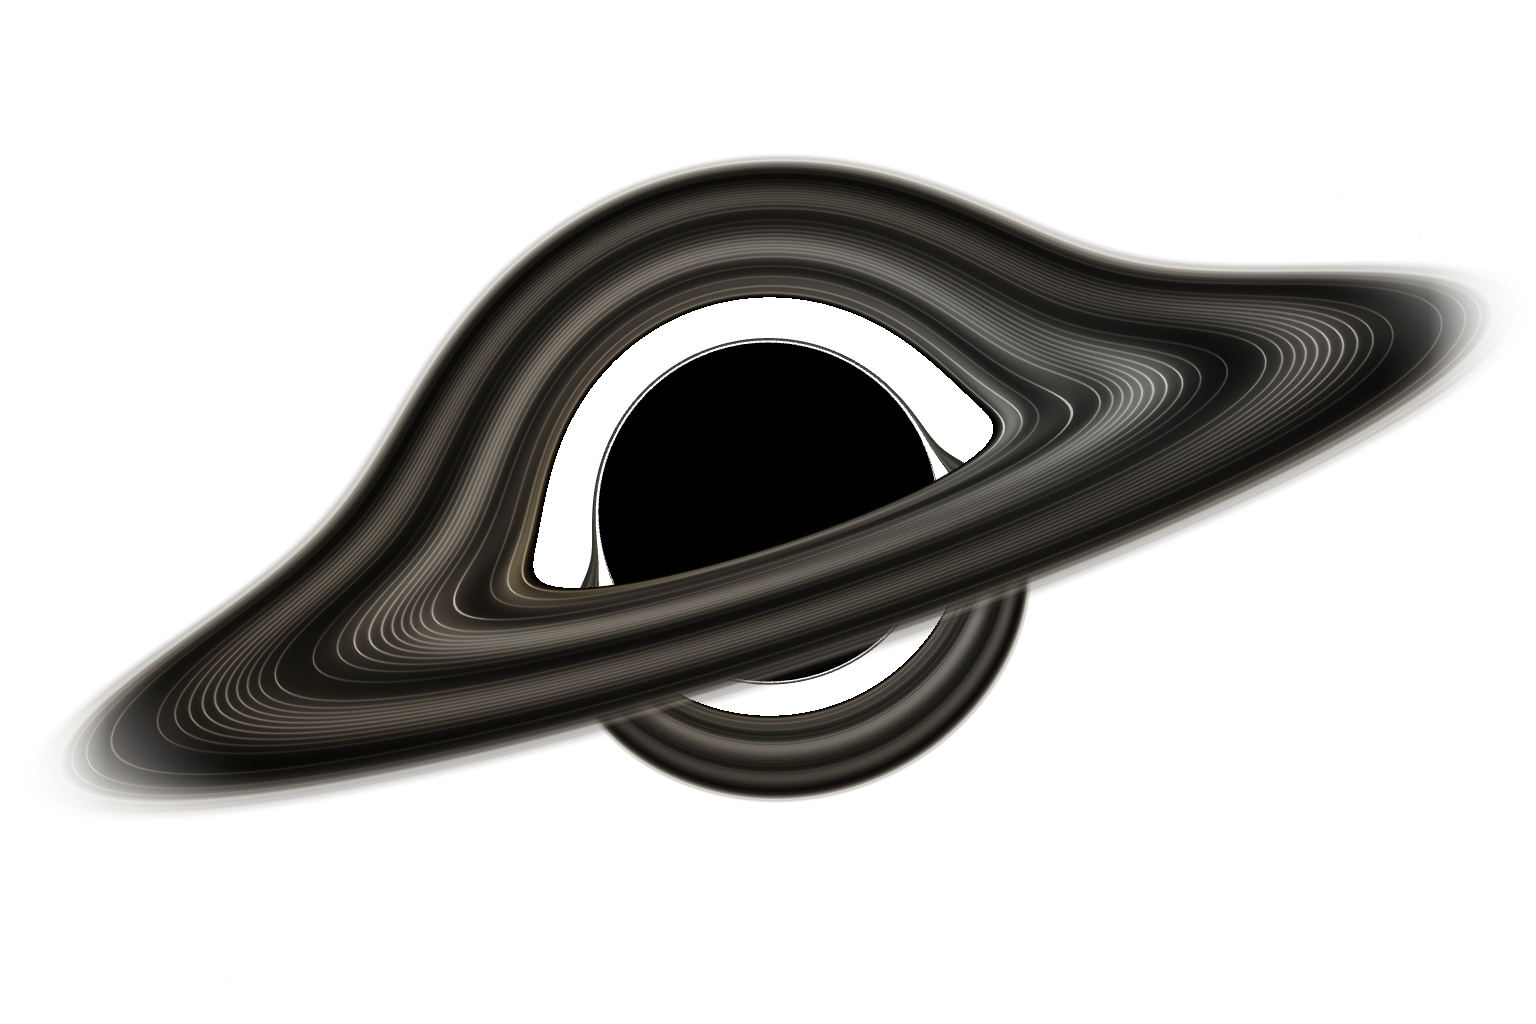
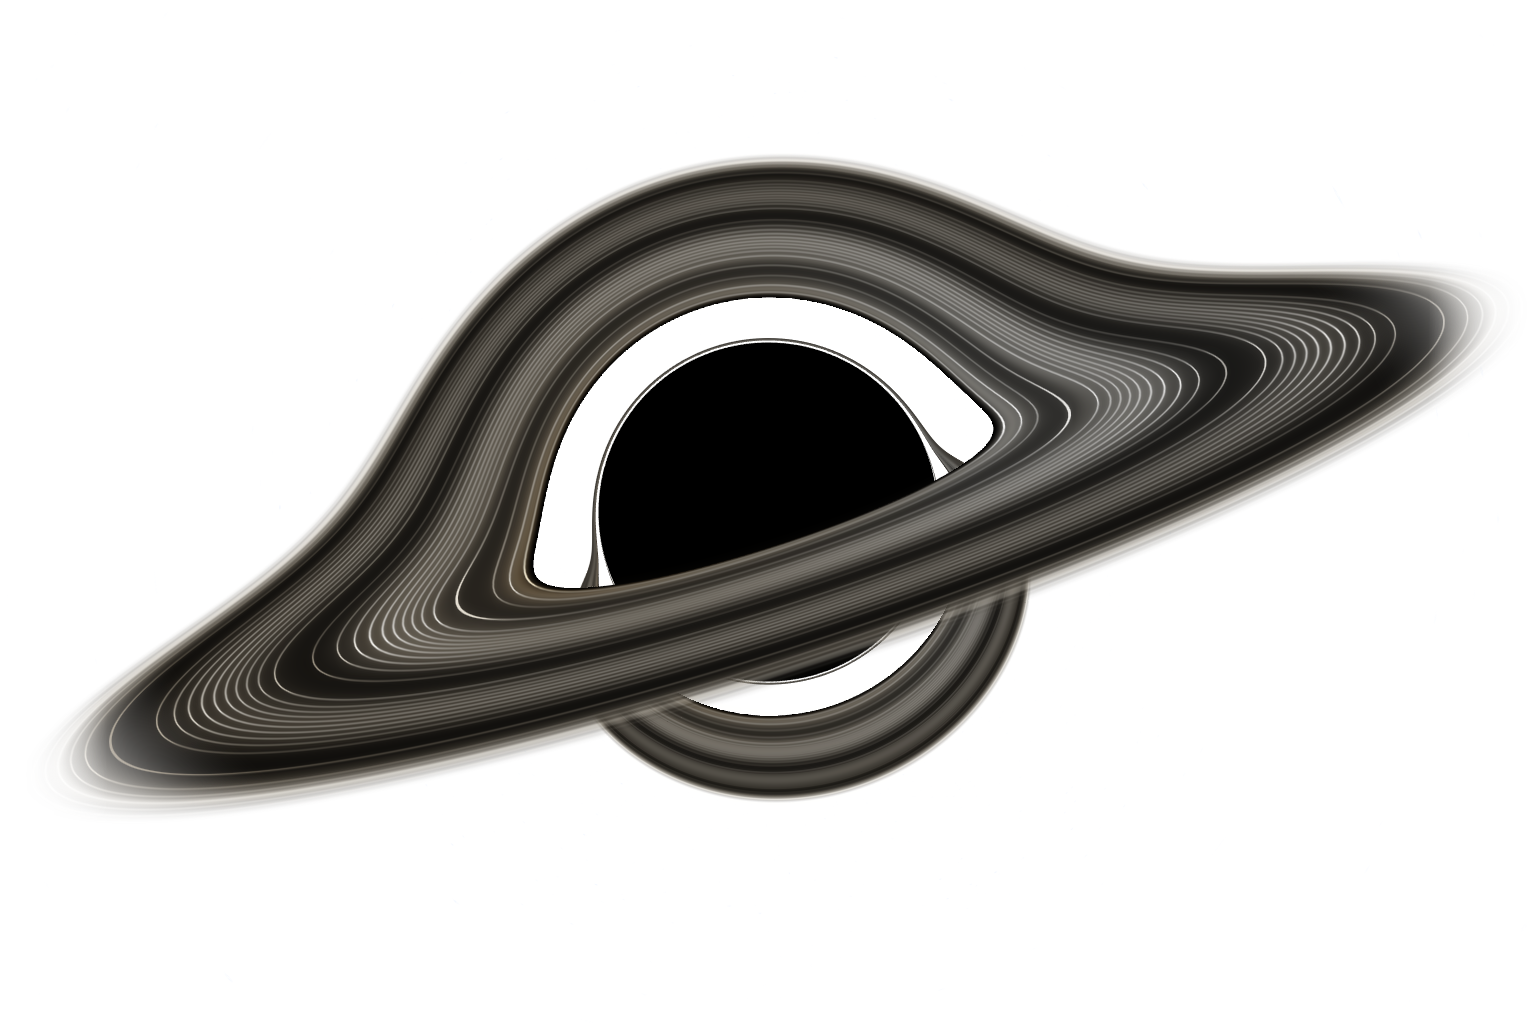
Refine black hole visuals, parallax, and homepage title

Changed region(s): [[0.0938, 0.1562, 0.9062, 0.7812], [0.5, 0.625, 0.5625, 0.6562]]

diff --git a/js/black-hole.js b/js/black-hole.js
@@ -70,6 +70,34 @@
       float r2 = dot(p, p);
       return -1.5 * h2 * p / (r2 * r2 * sqrt(r2));
     }
+    float orbitalRibbon(float r, float phi, float radialVariance, float angularVariance,
+        float covariance, float center, float offset) {
+      float width = 0.05 + center * 0.023;
+      float filteredWidth = sqrt(width * width + radialVariance);
+      float distanceInWidths = (r - center) / filteredWidth;
+      // Outside its narrow annulus the arc contributes less than 1/25000.
+      // Skip its angular work instead of evaluating three arcs at every hit.
+      if (abs(distanceInWidths) > 4.5) return 0.0;
+      float radial = exp(-0.5 * distanceInWidths * distanceInWidths) * width / filteredWidth;
+      // Each short-lived ribbon fades completely before its bounded age wraps.
+      // This retains differential rotation without winding finer forever.
+      float age = mod(u_time + offset, 24.0);
+      float envelope = pow(sin(PI * age / 24.0), 2.0);
+      float phase = phi - offset * 1.7 - age * 3.2 / pow(r, 1.5);
+      float shear = age * 4.8 / pow(r, 2.5);
+      float variance = max(0.0, angularVariance + shear * shear * radialVariance
+        + 2.0 * shear * covariance);
+      // Exact four-harmonic raised cosine, filtered before adding radiance.
+      // Its angular integral is constant as the highlight moves around the disk.
+      // Recurrences keep the same four harmonics with one cos and one exp.
+      float c1 = cos(phase), c2 = 2.0 * c1 * c1 - 1.0;
+      float c3 = 2.0 * c1 * c2 - c1, c4 = 2.0 * c2 * c2 - 1.0;
+      float a1 = exp(-0.5 * variance), a2 = a1 * a1;
+      float a4 = a2 * a2, a8 = a4 * a4;
+      float arc = (70.0 + 112.0 * c1 * a1 + 56.0 * c2 * a4
+        + 16.0 * c3 * a8 * a1 + 2.0 * c4 * a8 * a8) / 256.0;
+      return radial * envelope * arc;
+    }
     vec3 diskEmission(vec3 p, vec3 ray, vec3 pointDx, vec3 pointDy) {
       float r = length(p.xz);
       float phi = atan(p.z, p.x);
@@ -81,7 +109,18 @@
       // between bundles. Periodic angular coordinates avoid a texture seam.
       float phase = phi - u_time * 3.2 / pow(r, 1.5);
       vec2 phaseGradient = angularGradient + (4.8 * u_time / pow(r, 2.5)) * radialGradient;
-      float bundles = 0.5 + 0.5 * cos(r * 2.35)
+      // Gentle coherent bends preserve the existing bundles and line count.
+      // These broad modes stay resolved even after a long-running animation.
+      float bendPhase = phi * 2.0 + r * 0.65 - u_time * 0.12;
+      float curlPhase = phi * 3.0 - r * 0.9 + u_time * 0.075;
+      vec2 bendGradient = angularGradient * 2.0 + radialGradient * 0.65;
+      vec2 curlGradient = angularGradient * 3.0 - radialGradient * 0.9;
+      float bendFilter = exp(-0.5 * dot(bendGradient, bendGradient));
+      float curlFilter = exp(-0.5 * dot(curlGradient, curlGradient));
+      float laneRadius = r + 0.028 * sin(bendPhase) * bendFilter + 0.014 * sin(curlPhase) * curlFilter;
+      vec2 laneGradient = radialGradient + 0.028 * cos(bendPhase) * bendFilter * bendGradient
+        + 0.014 * cos(curlPhase) * curlFilter * curlGradient;
+      float bundles = 0.5 + 0.5 * cos(laneRadius * 2.35)
         * exp(-0.5 * pow(radialFootprint * 2.35, 2.0));
       // Shear eventually compresses the small orbital ripples below a pixel.
       // Filter those ripples BEFORE they warp the main radial bands, otherwise
@@ -90,21 +129,25 @@
       vec2 warpGradient = phaseGradient * 2.0 + radialGradient * 1.4;
       float warpFilter = exp(-0.5 * dot(warpGradient, warpGradient));
       float phaseFilter = exp(-0.5 * dot(phaseGradient, phaseGradient));
-      float streakPhase = r * 25.0 + 6.2 * sin(r * 2.35) + 0.9 * sin(r * 5.0)
+      float streakPhase = laneRadius * 25.0 + 6.2 * sin(laneRadius * 2.35) + 0.9 * sin(laneRadius * 5.0)
         + 0.65 * sin(warpPhase) * warpFilter + 0.25 * sin(phase) * phaseFilter;
-      float laneWidth = mix(0.018, 0.065, bundles);
-      vec2 streakGradient = (25.0 + 14.57 * cos(r * 2.35) + 4.5 * cos(r * 5.0)) * radialGradient
+      float widthPhase = phi * 3.0 + r * 1.3 - u_time * 0.15;
+      vec2 widthGradient = angularGradient * 3.0 + radialGradient * 1.3;
+      float widthVariation = 1.0 + 0.12 * sin(widthPhase) * exp(-0.5 * dot(widthGradient, widthGradient));
+      float laneWidth = mix(0.020, 0.072, bundles) * widthVariation;
+      vec2 streakGradient = (25.0 + 14.57 * cos(laneRadius * 2.35) + 4.5 * cos(laneRadius * 5.0)) * laneGradient
         + 0.65 * cos(warpPhase) * warpFilter * warpGradient
         + 0.25 * cos(phase) * phaseFilter * phaseGradient;
       float filament = filteredLane(streakPhase / (2.0 * PI), laneWidth * 2.0,
         streakGradient / (2.0 * PI));
-      // Broad, slowly travelling illumination reveals depth without grain.
-      float flowPhase = phase * 3.0 + r * 0.85;
-      // Analytic gradients include orbital shear at long running times and
-      // remain continuous through atan's wrap and multiple sine periods.
-      vec2 flowGradient = phaseGradient * 3.0 + radialGradient * 0.85;
-      float flowFilter = exp(-0.5 * dot(flowGradient, flowGradient));
-      float flow = 0.76 + 0.24 * sin(flowPhase) * flowFilter;
+      float radialVariance = dot(radialGradient, radialGradient) / 12.0;
+      float angularVariance = dot(angularGradient, angularGradient) / 12.0;
+      float covariance = dot(radialGradient, angularGradient) / 12.0;
+      float ribbons = orbitalRibbon(r, phi, radialVariance, angularVariance, covariance, 4.6, 3.7)
+        + orbitalRibbon(r, phi, radialVariance, angularVariance, covariance, 6.8, 12.1)
+        + orbitalRibbon(r, phi, radialVariance, angularVariance, covariance, 8.9, 20.6);
+      // Local material highlights move; the broad illumination stays stationary.
+      float flow = 1.0 + 0.8 * ribbons;
 
       // Local orbital velocity; -ray is the emitted photon's direction.
       vec3 tangent = normalize(vec3(-p.z, 0.0, p.x));
@@ -145,9 +188,9 @@
       edgeLight *= chapterLight;
       // Keep the disk luminous after removing the false brightness introduced
       // by tone-mapping an already averaged stripe. Endpoints retain soft highlights.
-      const float diskExposure = 1.42;
-      vec3 baseLight = (color * energy * (0.055 + 0.12 * bundles) * flow * innerEdge + edgeLight) * diskExposure;
-      vec3 strandLight = color * energy * (0.28 + 1.15 * bundles) * flow * innerEdge * diskExposure;
+      const float diskExposure = 1.80;
+      vec3 baseLight = (color * energy * (0.040 + 0.090 * bundles + 0.055 * (flow - 1.0)) * innerEdge + edgeLight) * diskExposure;
+      vec3 strandLight = color * energy * (0.34 + 1.38 * bundles) * flow * innerEdge * diskExposure;
       // Integrate displayed radiance: applying the nonlinear tone curve AFTER
       // averaging narrow stripes recreates harmonics and changes their mean.
       vec3 baseColor = 1.0 - exp(-baseLight * 1.45);
@@ -398,6 +441,7 @@
       vec3 pointDx = vec3(0.0), pointDy = vec3(0.0);
       vec3 skyDx = vec3(0.0), skyDy = vec3(0.0);
       vec2 screenDx = vec2(0.0), screenDy = vec2(0.0);
+      float silhouetteAA = 0.0;
       #ifdef HAS_DERIVATIVES
         // Every fragment reconverges here. Never evaluate derivatives inside
         // a ray-march or a material branch with different per-pixel control flow.
@@ -407,6 +451,9 @@
         screenDy = dFdy(screen);
         skyDx = dFdx(hit.ray);
         skyDy = dFdy(hit.ray);
+        // The disk's inner silhouette lies outside the critical curve too.
+        // Mark both sides of material boundaries before correcting derivatives.
+        silhouetteAA = min(1.0, abs(dFdx(hit.material)) + abs(dFdy(hit.material)));
       #endif
       vec3 rayDx = normalize(forward * focal + (screen.x + screenDx.x) * right + (screen.y + screenDx.y) * up);
       vec3 rayDy = normalize(forward * focal + (screen.x + screenDy.x) * right + (screen.y + screenDy.y) * up);
@@ -455,17 +502,30 @@
       if (throughDisk) light += shadeHit(beneath, beneathDx, beneathDy, skyLight) * (1.0 - light.a);
       vec3 angular = cross(origin, direction);
       float h2 = dot(angular, angular);
-      // Only the critical-curve neighbourhood needs geometry supersampling.
-      // Four rotated subpixel rays smooth the thin higher-order silhouettes;
+      // Supersample only the critical curve and detected material silhouettes.
+      // Eight fixed subpixel rays smooth minimal's thin higher-order silhouettes;
       // the rest of the disk keeps its analytically filtered, distinct strands.
       float edgeAA = smoothstep(5.5, 5.9, h2) * (1.0 - smoothstep(8.1, 8.5, h2));
+      edgeAA = max(edgeAA, silhouetteAA * (1.0 - u_ink));
       if (edgeAA > 0.0) {
         vec4 samples = vec4(0.0);
-        for (int sampleIndex = 0; sampleIndex < 4; sampleIndex++) {
+        float sampleCount = mix(8.0, 4.0, u_ink);
+        for (int sampleIndex = 0; sampleIndex < 8; sampleIndex++) {
+          if (float(sampleIndex) >= sampleCount) break;
           vec2 offset = vec2(-0.375, -0.125);
           if (sampleIndex == 1) offset = vec2(0.125, -0.375);
           if (sampleIndex == 2) offset = vec2(0.375, 0.125);
           if (sampleIndex == 3) offset = vec2(-0.125, 0.375);
+          if (u_ink < 0.5) {
+            offset = vec2(0.0625, -0.1875);
+            if (sampleIndex == 1) offset = vec2(-0.0625, 0.1875);
+            if (sampleIndex == 2) offset = vec2(0.3125, 0.0625);
+            if (sampleIndex == 3) offset = vec2(-0.1875, -0.3125);
+            if (sampleIndex == 4) offset = vec2(-0.3125, 0.3125);
+            if (sampleIndex == 5) offset = vec2(-0.4375, -0.0625);
+            if (sampleIndex == 6) offset = vec2(0.1875, 0.4375);
+            if (sampleIndex == 7) offset = vec2(0.4375, -0.4375);
+          }
           vec2 subScreen = screen + screenDx * offset.x + screenDy * offset.y;
           vec3 subRay = normalize(forward * focal + subScreen.x * right + subScreen.y * up);
           RayHit subHit = traceRay(origin, subRay);
@@ -495,7 +555,7 @@
           }
           samples += subLight;
         }
-        light = mix(light, samples * 0.25, edgeAA);
+        light = mix(light, samples / sampleCount, edgeAA);
       }
       // Internal targets contain premultiplied light. The final pass converts
       // to straight alpha exactly once for the transparent WebGL canvas.
@@ -581,7 +641,7 @@
       vec2 sceneUV = u_crop.xy + v_uv * u_crop.zw;
       float fade = 1.0 - smoothstep(0.70, 1.0, length((sceneUV - 0.5) * 1.7));
       fade = mix(fade, 1.0, u_chapter);
-      glow = glow / weights * mix(0.30, 0.42, u_chapter) * fade;
+      glow = glow / weights * mix(0.23, 0.42, u_chapter) * fade;
       #ifdef HAS_TEXTURE_LOD
         if (u_softGlow > 0.5 && u_chapter > 0.0) {
           vec2 centerUV = mix((vec2(0.5) - u_crop.xy) / u_crop.zw, vec2(0.5), u_chapter);
@@ -1153,6 +1213,13 @@
     pollGpu() {
       if (!this.ready || this.lost || this.disposed) return false;
       return this.gpuAvailable();
+    }
+
+    getFrameInterval(cameraMoving = false) {
+      // Only interactive camera motion requests 60 fps. Keep idle load low,
+      // honour adaptive slowdowns, and never boost an unbounded legacy queue.
+      return cameraMoving && (this.webgl2 || this.timerQuery) && this.frameInterval <= 1000 / 30
+        ? 1000 / 60 : this.frameInterval;
     }
 
     recordGpuCost(lower, upper = lower) {

diff --git a/js/main.js b/js/main.js
@@ -228,11 +228,7 @@
     }
   }
 
-  function draw() {
-    clearTimeout(drawTimer);
-    drawTimer = 0;
-    if (!pageActive || document.hidden) return false;
-    if (shouldHoldScene()) { holdScene(); return false; }
+  function drawParallax() {
     drawStars();
     if (pointer.x !== layerX || pointer.y !== layerY) {
       layerX = pointer.x;
@@ -242,6 +238,14 @@
         element.style.setProperty('--pointer-y', `${-pointer.y * depth * 6}px`);
       }
     }
+  }
+
+  function draw() {
+    clearTimeout(drawTimer);
+    drawTimer = 0;
+    if (!pageActive || document.hidden) return false;
+    if (shouldHoldScene()) { holdScene(); return false; }
+    drawParallax();
     const submitted = blackHole?.render(sceneTime(), pointer.x, -pointer.y, chapterProgress, entranceGlow);
     if (submitted === true && !sceneSettled) {
       firstFrameSubmitted = true;
@@ -301,7 +305,8 @@
     if (animated) resumeSceneClock(); else pauseSceneClock();
     const delta = lastTime ? Math.min(timestamp - lastTime, 100) : 16;
     lastTime = timestamp;
-    const ease = 1 - Math.exp(-delta * 0.005);
+    // About 110 ms of damping keeps direction changes responsive at any refresh rate.
+    const ease = 1 - Math.exp(-delta * 0.009);
     pointer.x += (pointer.targetX - pointer.x) * ease;
     pointer.y += (pointer.targetY - pointer.y) * ease;
     const settled = Math.abs(pointer.targetX - pointer.x) < 0.001 && Math.abs(pointer.targetY - pointer.y) < 0.001;
@@ -309,13 +314,21 @@
       pointer.x = pointer.targetX;
       pointer.y = pointer.targetY;
     }
-    const frameInterval = animated && Number.isFinite(blackHole.frameInterval) && blackHole.frameInterval > 0
-      ? blackHole.frameInterval : 1000 / 30;
-    // A small tolerance keeps a 33.33 ms target aligned with two 60 Hz frames.
-    if (timestamp - lastRender >= frameInterval - 1 || (!animated && settled)) {
+    // Lightweight layers follow the display even when the GPU is occupied.
+    drawParallax();
+    const requestedInterval = animated
+      ? blackHole.getFrameInterval?.(!settled && chapterProgress === 0) ?? blackHole.frameInterval : 1000 / 60;
+    const frameInterval = Number.isFinite(requestedInterval) && requestedInterval > 0
+      ? requestedInterval : 1000 / 30;
+    // Retain fractional cadence across 60/75/120/144 Hz displays. A busy GPU
+    // cannot consume a due frame; submit its latest camera on the next free tick.
+    if ((!animated || gpuAvailable !== false)
+        && (timestamp - lastRender >= frameInterval - 1 || (!animated && settled))) {
       const submitted = draw();
-      if (animated && submitted !== false) blackHole.sampleFrame(timestamp);
-      lastRender = timestamp;
+      if (!animated || submitted !== false) {
+        if (animated) blackHole.sampleFrame(timestamp);
+        lastRender += Math.max(1, Math.floor((timestamp - lastRender + 1) / frameInterval)) * frameInterval;
+      }
     }
     // Rendering may slow under GPU load, but the active scene clock keeps time.
     if (animated || !settled) frame = requestAnimationFrame(tick);

diff --git a/index.html b/index.html
@@ -11,18 +11,18 @@
     <meta property="og:url" content="https://gudu.blog/" />
     <link rel="canonical" href="https://gudu.blog/" />
     <link rel="alternate" type="application/rss+xml" title="Gudu 的个人博客" href="./feed.xml" />
-    <title>Gudu||个人博客</title>
+    <title>Gŭdù || 个人博客</title>
     <link rel="icon" type="image/svg+xml" href="./assets/favicon.svg?v=20261018-logo" />
     <link rel="preload" href="./assets/fonts/barlow-condensed-black-latin.woff2" as="font" type="font/woff2" crossorigin />
     <script src="./js/loading.js?v=20261023-responsive-startup"></script>
-    <script src="./js/black-hole-theme.js?v=20261020-continuous-lens"></script>
+    <script src="./js/black-hole-theme.js?v=20261023-disk-refinement"></script>
     <link rel="stylesheet" href="./css/style.css?v=20261020-clean-hero" />
     <link rel="stylesheet" href="./css/blog.css?v=20261020-clean-hero" />
     <link rel="stylesheet" href="./css/chapters.css?v=20261022-scroll-performance" />
     <script src="./js/ink-splatter.js?v=20261020-camera-preserved" defer></script>
     <script src="./js/particle-sky.js?v=20261020-original-stars" defer></script>
-    <script src="./js/black-hole.js?v=20261023-responsive-startup" defer></script>
-    <script src="./js/main.js?v=20261023-responsive-startup" defer></script>
+    <script src="./js/black-hole.js?v=20261023-smooth-parallax" defer></script>
+    <script src="./js/main.js?v=20261023-smooth-parallax" defer></script>
     <script src="./js/posts-data.js?v=20261014-1" defer></script>
     <script src="./js/blog.js?v=20261020-search-icon" defer></script>
     <script src="./js/chapters.js?v=20261023-responsive-startup" defer></script>
@@ -134,7 +134,7 @@
           </div>
 
           <figure class="black-hole" id="black-hole" aria-label="实时三维黑洞：暖白与淡琥珀细线流经倾斜的吸积盘，三维星空粒子随远近距离以不同速度漂移并经引力透镜弯曲，冷灰白细小星点衬托深黑阴影，视角随鼠标轻微转动。">
-            <img class="black-hole-fallback" src="./assets/black-hole-minimal-fallback.png?v=20261020-continuous-lens" data-black-hole-style="minimal" alt="" width="1536" height="1024" decoding="async" fetchpriority="high" aria-hidden="true" />
+            <img class="black-hole-fallback" src="./assets/black-hole-minimal-fallback.png?v=20261023-disk-refinement" data-black-hole-style="minimal" alt="" width="1536" height="1024" decoding="async" fetchpriority="high" aria-hidden="true" />
             <canvas id="black-hole-canvas" aria-hidden="true"></canvas>
           </figure>
         </div>

diff --git a/js/black-hole-theme.js b/js/black-hole-theme.js
@@ -9,7 +9,7 @@
   };
   const themes = {
     minimal: {
-      fallback: './assets/black-hole-minimal-fallback.png?v=20261020-continuous-lens',
+      fallback: './assets/black-hole-minimal-fallback.png?v=20261023-disk-refinement',
       label: '实时三维黑洞：暖白与淡琥珀细线流经倾斜的吸积盘，三维星空粒子随远近距离以不同速度漂移并经引力透镜弯曲，冷灰白细小星点衬托深黑阴影，视角随鼠标轻微转动。',
     },
     ink: {
